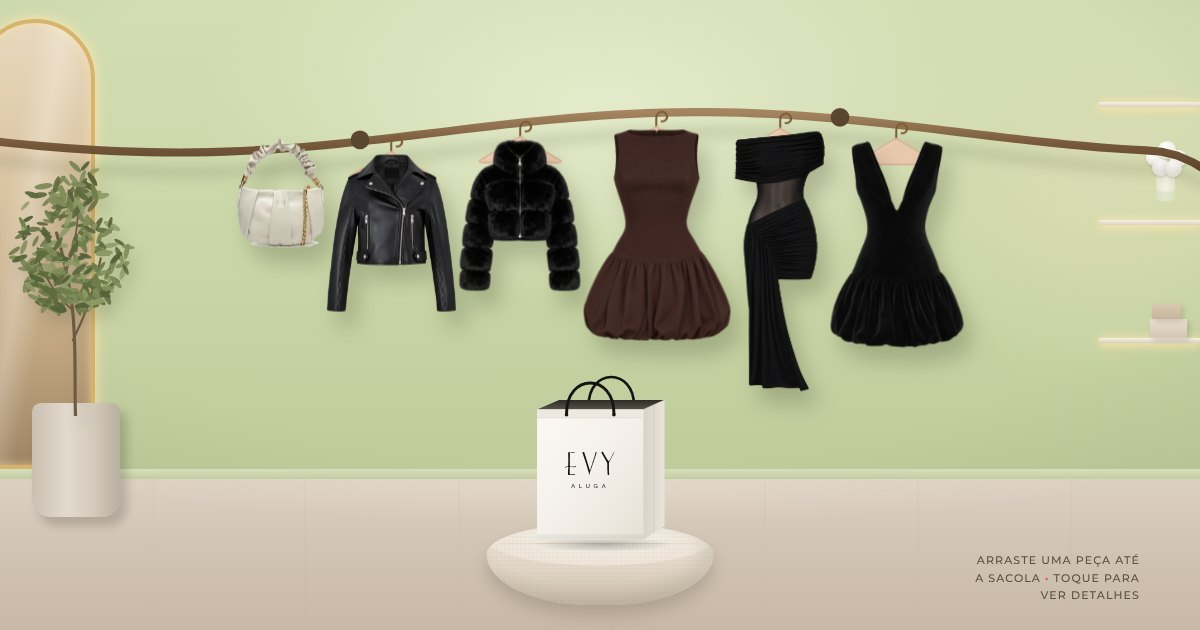
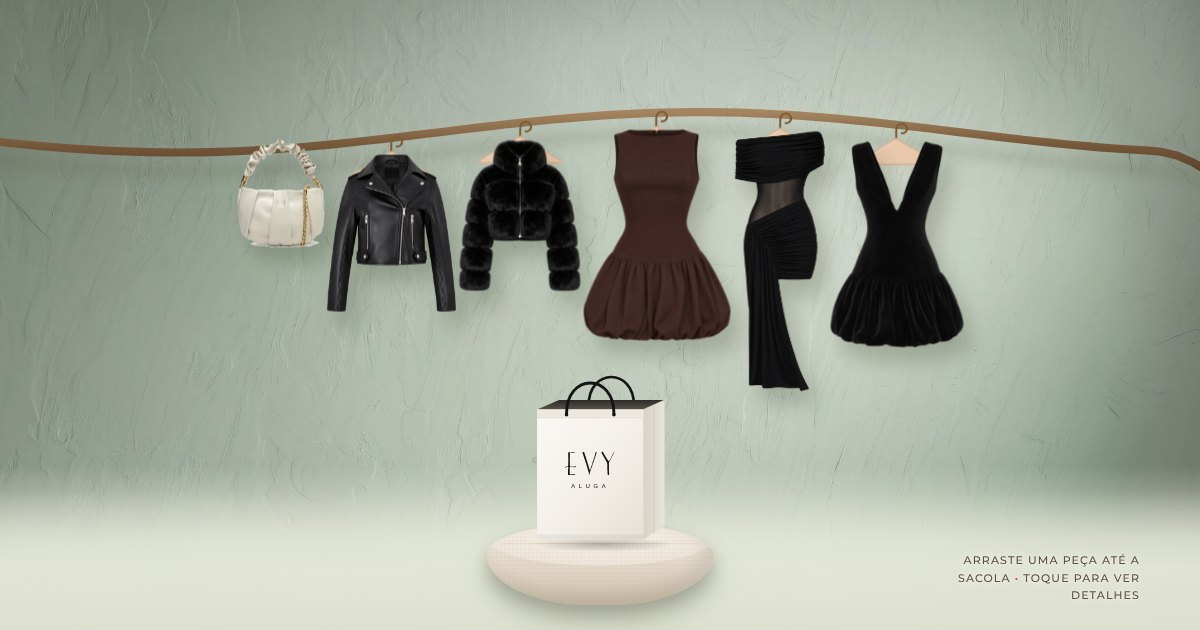
Vitrine EVY: parede fotográfica de gesso verde-sálvia e armário de bolsas preparado
- Fundo passa a ser foto real (Adobe Stock, licença padrão gratuita), suavizada,
  com piso claro de estúdio; saem espelho, prateleiras e planta desenhados.
- Recortes limpos das bolsas para uso futuro na vitrine.
- Acervo: Tabby Chain 19, Cleo e Eliza mostravam fotos de vestidos por engano;
  ficam como 'Foto em breve' até chegarem as fotos certas.

Claude-Session: https://claude.ai/code/session_01JWzVUeVVFgoHDUGqF9rBry

diff --git a/css/evy.css b/css/evy.css
@@ -76,38 +76,13 @@ h1,h2,h3{margin:0;font-weight:500;line-height:1.1}
   container-type:size;isolation:isolate;user-select:none;-webkit-user-select:none;background:var(--salvia);
 }
 .cena{position:absolute;inset:0;z-index:0;pointer-events:none}
-.parede{position:absolute;inset:0 0 calc(100% - var(--chao));background:
-  radial-gradient(ellipse 45% 55% at 50% 22%,#E4EBCB 0%,transparent 75%),
-  radial-gradient(ellipse 30% 60% at 92% 40%,#F3E5C255 0%,transparent 70%),
-  linear-gradient(180deg,#D3DDB3 0%,var(--salvia) 55%,#BFCB9B 100%)}
-.parede::after{content:"";position:absolute;inset:0;background:radial-gradient(ellipse 85% 95% at 50% 40%,transparent 60%,#7d875f33 100%)}
-.rodape-parede{position:absolute;left:0;right:0;top:calc(var(--chao) - 1.6cqh);height:1.6cqh;background:linear-gradient(180deg,#D6DEBC,#C3CDA0);box-shadow:0 .3cqh .4cqh #6b6a4b33}
-.piso{position:absolute;left:0;right:0;bottom:0;top:var(--chao);background:
-  radial-gradient(ellipse 60% 40% at 50% 0%,#ECE3D766 0%,transparent 70%),
-  linear-gradient(180deg,#DCD0C2 0%,#D2C4B4 45%,#C7B8A7 100%)}
-.piso::before{content:"";position:absolute;inset:0;background:repeating-linear-gradient(90deg,transparent 0 24cqh,#b3a39012 24cqh calc(24cqh + 2px))}
-.tapete{position:absolute;left:-6%;width:52%;bottom:-11%;height:17%;border-radius:50%;background:radial-gradient(ellipse at 50% 40%,#E6DCCE 0%,#DCD0C0 70%,#D2C4B2 100%);box-shadow:inset 0 .4cqh .8cqh #ffffff70}
-.tapete::after{content:"";position:absolute;inset:0;border-radius:50%;background:radial-gradient(#00000010 1px,transparent 1.4px) 0 0/5px 5px}
-/* Espelho em arco com moldura iluminada */
-.espelho{position:absolute;left:-4cqh;top:3%;bottom:calc(100% - var(--chao) + 1.6cqh);width:19cqh;border-radius:999px 999px 0 0;border:.7cqh solid #D8B36C;
-  box-shadow:0 0 2.2cqh #FFE7AE,inset 0 0 1.6cqh #FFE7AE99;overflow:hidden;
-  background:linear-gradient(180deg,#E8D8BC 0%,#D9C3A0 40%,#BFA47F 75%,#9F8463 100%)}
-.espelho-luz{position:absolute;inset:0;background:
-  linear-gradient(100deg,transparent 30%,#ffffff40 45%,transparent 60%)}
-/* Planta em vaso de pedra */
-.vaso-planta{position:absolute;left:1cqh;bottom:calc(100% - var(--chao) - 6cqh);width:22cqh;height:58cqh;display:flex;flex-direction:column;align-items:center}
-.vaso-planta img{width:100%;height:auto;flex:1;object-fit:contain;object-position:bottom;margin-bottom:-2cqh;filter:drop-shadow(1cqh 1.5cqh 1.2cqh #3c432a33)}
-.vaso-planta i{display:block;width:14cqh;height:19cqh;border-radius:1.4cqh 1.4cqh 3cqh 3cqh;background:linear-gradient(90deg,#C9C0B2,#E2DACD 40%,#D3CABC 70%,#B9AF9F);box-shadow:1cqh 1.4cqh 1.6cqh #0000002a}
-/* Prateleiras iluminadas à direita */
-.prateleiras{position:absolute;right:0;top:10%;width:16cqh;height:52%}
-.prat{position:absolute;right:0;width:100%;height:.8cqh;background:linear-gradient(180deg,#F7F1E4,#D9D0BF);box-shadow:0 0 1.6cqh #FFE9B5,0 .6cqh 1.4cqh #FFE2A2aa}
-.prat.p1{top:12%}.prat.p2{top:48%}.prat.p3{top:84%}
-.caixa{position:absolute;right:2cqh;width:6cqh;height:3cqh;background:linear-gradient(180deg,#E9DFCF,#D4C7B3);box-shadow:.4cqh .4cqh .8cqh #0002}
-.caixa.c1{top:calc(84% - 3cqh)}
-.caixa.c2{top:calc(84% - 5.4cqh);right:3cqh;width:4.6cqh;height:2.4cqh;background:linear-gradient(180deg,#D7C8B0,#C6B59A)}
-.vaso-flores{position:absolute;right:4cqh;top:calc(48% - 8cqh);width:3cqh;height:5cqh;border-radius:.6cqh .6cqh 1cqh 1cqh;background:linear-gradient(90deg,#ffffff55,#ffffffaa,#ffffff55);box-shadow:inset 0 -1.5cqh 0 #c9d7b066}
-.vaso-flores b{position:absolute;width:2.8cqh;height:2.8cqh;border-radius:50%;background:radial-gradient(circle at 40% 35%,#fff,#F1EEE6 60%,#DCD6C8);box-shadow:0 .2cqh .4cqh #0002}
-.vaso-flores b:nth-child(1){left:-1.6cqh;top:-3.4cqh}.vaso-flores b:nth-child(2){left:.4cqh;top:-4.6cqh}.vaso-flores b:nth-child(3){left:2.2cqh;top:-3.2cqh}.vaso-flores b:nth-child(4){left:-.6cqh;top:-1.8cqh}.vaso-flores b:nth-child(5){left:1.4cqh;top:-1.6cqh}
+.parede{position:absolute;inset:0;background:#C3D2B4 url("../assets/vitrine/parede.jpg") center 40%/cover no-repeat}
+/* Luz suave do alto e base levemente mais escura, como chão de estúdio */
+.parede::after{content:"";position:absolute;inset:0;background:
+  radial-gradient(ellipse 55% 45% at 50% 8%,#ffffff33,transparent 70%),
+  linear-gradient(180deg,transparent 74%,#EEF0E2aa 86%,#E9EBDCdd 100%)}
+/* Piso claro de estúdio: transição suave da parede para o chão */
+.parede::before{content:"";position:absolute;left:0;right:0;bottom:0;height:22%;z-index:1;background:linear-gradient(180deg,transparent,#e4e7d6 55%,#dde0cd);opacity:.85}
 
 /* Barra ondulada presa à parede (desenhada pelo script conforme a largura) */
 .arara-rolagem{position:absolute;inset:0;overflow-x:auto;overflow-y:hidden;scrollbar-width:none;overscroll-behavior-x:contain;z-index:2}
@@ -156,7 +131,7 @@ h1,h2,h3{margin:0;font-weight:500;line-height:1.1}
 .sacola{position:absolute;z-index:10;left:50%;bottom:calc(4% + 9.4cqh);width:25cqh;aspect-ratio:300/360;transform:translateX(-50%);padding:0;border:0;background:transparent;-webkit-tap-highlight-color:transparent}
 .sacola::after{content:"";position:absolute;left:8%;right:4%;bottom:-1cqh;height:2.4cqh;border-radius:50%;background:radial-gradient(ellipse at 50% 50%,#00000040,transparent 70%);z-index:-1}
 /* Puff redondo de bouclê onde a sacola fica apoiada */
-.puff-sacola{position:absolute;z-index:9;left:50%;bottom:4%;width:36cqh;height:13cqh;transform:translateX(-50%);pointer-events:none;
+.puff-sacola{position:absolute;z-index:9;filter:drop-shadow(0 2.4cqh 2cqh #2f3a2638);left:50%;bottom:4%;width:36cqh;height:13cqh;transform:translateX(-50%);pointer-events:none;
   border-radius:50% 50% 46% 46%/38% 38% 62% 62%;
   background:radial-gradient(ellipse 70% 45% at 50% 20%,#F7F1E8 0%,#ECE4D7 70%,transparent 72%),linear-gradient(180deg,#EDE5D8 0%,#E1D6C6 55%,#CBBDA9 100%);
   box-shadow:inset -1.6cqh -1.4cqh 2.4cqh #00000014,0 1.6cqh 2.4cqh #3a2f1f2e}
@@ -170,7 +145,7 @@ h1,h2,h3{margin:0;font-weight:500;line-height:1.1}
 .sacola.alvo::before{opacity:1;transform:translate(-50%,0)}
 .sacola-num{position:absolute;right:4%;top:20%;min-width:3.6cqh;height:3.6cqh;padding:0 1cqh;border-radius:999px;background:var(--rosa);color:var(--preto);font-size:max(11px,1.7cqh);font-weight:700;line-height:3.6cqh;text-align:center}
 
-.vitrine-dica{position:absolute;z-index:13;right:var(--margem);bottom:4%;margin:0;max-width:24ch;text-align:right;font-size:11px;font-weight:500;letter-spacing:.1em;text-transform:uppercase;color:#5A5040}
+.vitrine-dica{position:absolute;z-index:13;right:var(--margem);bottom:4%;margin:0;max-width:26ch;text-align:right;text-shadow:0 0 8px #F2F4E8,0 0 2px #F2F4E8;font-size:11px;font-weight:500;letter-spacing:.1em;text-transform:uppercase;color:#5A5040}
 .vitrine-dica b{color:var(--rosa);font-weight:700}
 .dica-celular{display:none}
 
@@ -310,8 +285,7 @@ h1,h2,h3{margin:0;font-weight:500;line-height:1.1}
   body{font-size:14px}
   .topo-logo img{width:78px}
   .palco{height:clamp(520px,calc(100svh - var(--topo) - 30px),700px);--tam:45cqh}
-  .espelho,.prateleiras{display:none}
-  .vaso-planta{left:-6cqh;opacity:.95}
+  .parede{background-image:url("../assets/vitrine/parede-celular.jpg")}
   .sacola{width:21cqh}
   .puff-sacola{width:31cqh}
   .dica-grande{display:none}

diff --git a/js/acervo.js b/js/acervo.js
@@ -22,9 +22,9 @@ window.EVY_ACERVO=[
  {"id": "wallet-verde", "name": "Mini Wallet verde · Coach", "kind": "Bolsas", "size": ["Único"], "price": 60, "color": "Verde", "photo": "assets/cutouts/mini-wallet-verde-coach.png", "fit": "contain", "code": "EVY-018"},
  {"id": "anna", "name": "Anna Foldover Crossbody · Coach", "kind": "Bolsas", "size": ["Único"], "price": 80, "color": "Vermelho", "photo": "assets/cutouts/anna-foldover-vermelha.png", "fit": "contain", "code": "EVY-019"},
  {"id": "tabby12", "name": "Mini Tabby 12 preta · Coach", "kind": "Bolsas", "size": ["Único"], "price": 120, "color": "Preto", "photo": "assets/cutouts/mini-tabby-12-preta.png", "fit": "contain", "code": "EVY-020"},
- {"id": "tabby19", "name": "Tabby Chain 19 · Coach", "kind": "Bolsas", "size": ["Único"], "price": 150, "color": "Marrom", "photo": "assets/cutouts/tabby-chain-19-marrom.png", "fit": "contain", "code": "EVY-021"},
- {"id": "cleo", "name": "Cleo Woven · JW Pei", "kind": "Bolsas", "size": ["Único"], "price": 80, "color": "Marrom escuro", "photo": "assets/cutouts/cleo-woven-dark-brown.png", "fit": "contain", "code": "EVY-022"},
- {"id": "eliza", "name": "Eliza Small Flap · Coach", "kind": "Bolsas", "size": ["Único"], "price": 80, "color": "Preto", "photo": "assets/cutouts/eliza-small-flap-preta.png", "fit": "contain", "code": "EVY-023"},
+ {"id": "tabby19", "name": "Tabby Chain 19 · Coach", "kind": "Bolsas", "size": ["Único"], "price": 150, "color": "Marrom", "photo": null, "fit": "contain", "code": "EVY-021"},
+ {"id": "cleo", "name": "Cleo Woven · JW Pei", "kind": "Bolsas", "size": ["Único"], "price": 80, "color": "Marrom escuro", "photo": null, "fit": "contain", "code": "EVY-022"},
+ {"id": "eliza", "name": "Eliza Small Flap · Coach", "kind": "Bolsas", "size": ["Único"], "price": 80, "color": "Preto", "photo": null, "fit": "contain", "code": "EVY-023"},
  {"id": "zap-001", "name": "Vestido Bárbara", "kind": "Vestidos", "size": ["M"], "price": 70, "color": null, "photo": null, "fit": "contain", "code": "EVY-024"},
  {"id": "zap-002", "name": "Vestido em Tule", "kind": "Vestidos", "size": ["P"], "price": 75, "color": null, "photo": null, "fit": "contain", "code": "EVY-025"},
  {"id": "zap-003", "name": "Jumpsuit Gown · Okey", "kind": "Conjuntos", "size": ["38"], "price": 90, "color": null, "photo": null, "fit": "contain", "code": "EVY-026"},

diff --git a/index.html b/index.html
@@ -68,15 +68,8 @@
   <!-- Vitrine: arara com as peças em alta resolução; cada peça pode ser arrastada até a sacola. -->
   <section class="vitrine" id="vitrine" aria-label="Vitrine interativa">
     <div class="palco" id="palco">
-      <!-- Cenário de boutique: parede sálvia, marca, espelho em arco, planta, prateleiras e piso claro. -->
-      <div class="cena" aria-hidden="true">
-        <div class="parede"></div>
-        <div class="espelho"><span class="espelho-luz"></span></div>
-        <div class="prateleiras"><i class="prat p1"></i><i class="prat p2"></i><i class="prat p3"></i><i class="caixa c1"></i><i class="caixa c2"></i><i class="vaso-flores"><b></b><b></b><b></b><b></b><b></b></i></div>
-        <div class="rodape-parede"></div>
-        <div class="piso"></div>
-        <div class="vaso-planta"><img src="assets/vitrine/planta.svg" alt="" width="220" height="420"><i></i></div>
-      </div>
+      <!-- Cenário: parede de gesso verde-sálvia (foto Adobe Stock, licença padrão) -->
+      <div class="cena" aria-hidden="true"><div class="parede"></div></div>
       <div class="arara-rolagem" id="araraRolagem">
         <div class="arara" id="arara">
           <svg class="arara-curva" id="araraCurva" aria-hidden="true" focusable="false"></svg>
